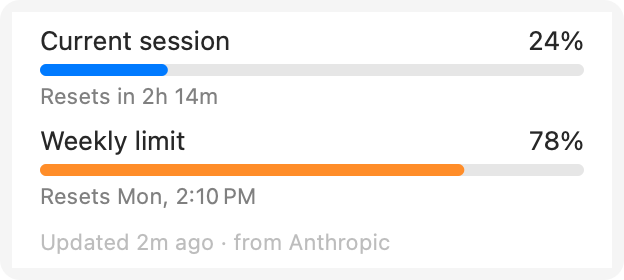
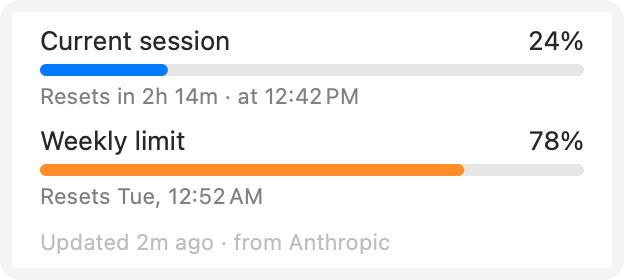
feat: show the clock time a usage limit resets
"Resets in 4h 22m · at 2:34 PM" in the usage panel (follows the Mac's
12/24-hour setting); the 90% warning says "resets in 1h 12m at 2:34 PM".
Windows more than a day away keep "Resets Mon 2:05 PM". Docs images
regenerated.

Changed region(s): [[0.1827, 0.6571, 0.4263, 0.7429], [0.3654, 0.3143, 0.5785, 0.3714]]

diff --git a/Sources/ClaudeStatusLight/Notifier.swift b/Sources/ClaudeStatusLight/Notifier.swift
@@ -142,14 +142,7 @@ final class Notifier: NSObject, UNUserNotificationCenterDelegate {
             var parts: [String] = []
             if used < 100 { parts.append("\(100 - used)% left") }
             if let reset = warning.window.resetsAt, reset > now {
-                let seconds = reset - now
-                if seconds < 24 * 3600 {
-                    parts.append("resets in \(StatusLineRunner.shortDuration(seconds))")
-                } else {
-                    let formatter = DateFormatter()
-                    formatter.setLocalizedDateFormatFromTemplate("EEEjmm")
-                    parts.append("resets \(formatter.string(from: Date(timeIntervalSince1970: reset)))")
-                }
+                parts.append("resets " + Format.reset(at: reset, now: now).replacingOccurrences(of: " · at ", with: " at "))
             }
             content.body = parts.joined(separator: " · ").capitalizedFirst
             content.threadIdentifier = "limits"
@@ -239,6 +232,20 @@ enum AppFocus {
 }
 
 enum Format {
+    /// When a usage window resets: "in 4h 22m · at 2:34 PM" today or tomorrow,
+    /// "Mon 2:05 PM" further out. Follows the Mac's 12/24-hour setting.
+    static func reset(at reset: Double, now: Double = Date().timeIntervalSince1970) -> String {
+        let date = Date(timeIntervalSince1970: reset)
+        let formatter = DateFormatter()
+        let seconds = reset - now
+        if seconds < 24 * 3600 {
+            formatter.setLocalizedDateFormatFromTemplate("jmm")
+            return "in \(StatusLineRunner.shortDuration(seconds)) · at \(formatter.string(from: date))"
+        }
+        formatter.setLocalizedDateFormatFromTemplate("EEEjmm")
+        return formatter.string(from: date)
+    }
+
     static func duration(_ seconds: Double) -> String {
         let total = Int(seconds.rounded())
         if total < 60 { return "\(total)s" }

diff --git a/Sources/ClaudeStatusLight/UsageMenuView.swift b/Sources/ClaudeStatusLight/UsageMenuView.swift
@@ -75,11 +75,7 @@ final class UsageMenuView: NSView {
 
     private func resetText(_ window: UsageWindow) -> String {
         guard let reset = window.resetsAt, reset > now else { return "Not started" }
-        let seconds = reset - now
-        if seconds < 24 * 3600 { return "Resets in \(StatusLineRunner.shortDuration(seconds))" }
-        let formatter = DateFormatter()
-        formatter.setLocalizedDateFormatFromTemplate("EEEjmm")
-        return "Resets \(formatter.string(from: Date(timeIntervalSince1970: reset)))"
+        return "Resets " + Format.reset(at: reset, now: now)
     }
 
     private static func color(for percent: Double) -> NSColor {

diff --git a/docs/guide.md b/docs/guide.md
@@ -10,7 +10,7 @@
 
 Click the light in the menu bar to see:
 
-- **Usage limits:** session (5-hour) and weekly usage, with reset times. Bars turn orange at 75% and red at 90%.
+- **Usage limits:** session (5-hour) and weekly usage, with when each resets ("Resets in 4h 22m · at 2:34 PM"). Bars turn orange at 75% and red at 90%.
 - **Sessions:** every open Claude Code session, with its folder, state, and how long it has been in that state. Click one to bring its terminal or editor to the front.
 - **Notifications** and **Launch at Login** switches, **Settings…**, and **Uninstall Hooks…**
 
@@ -20,7 +20,7 @@ Click the light in the menu bar to see:
 |---|---|---|
 | Claude finishes a turn | *Claude finished · my-project · 2m 13s* | Hero |
 | Claude needs you | *Claude needs you · my-project: Permission needed: Bash* | Ping |
-| A usage limit is 90% used | *Session limit 90% used · 10% left · resets in 1h 12m* | Ping |
+| A usage limit is 90% used | *Session limit 90% used · 10% left · resets in 1h 12m at 2:34 PM* | Ping |
 
 - Each session has one notification slot. A new notification replaces the old one, and it clears itself once Claude gets back to work or you reply.
 - Click a notification to jump to that session's terminal or editor.

diff --git a/CHANGELOG.md b/CHANGELOG.md
@@ -1,5 +1,9 @@
 # Changelog
 
+## Unreleased
+
+- The usage panel shows the clock time a limit resets as well as the countdown: "Resets in 4h 22m · at 2:34 PM". The 90% warning does too.
+
 ## 1.1.0 (2026-10-09)
 
 - **Limit warning**: one notification when the session or weekly limit reaches 90% used, with time to reset. On by default (Settings → Usage limits).
